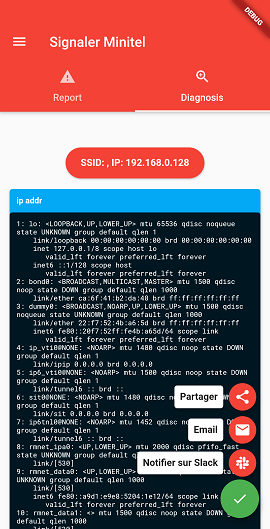
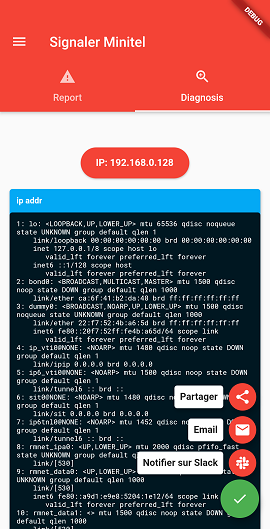
Diagnose: Kick SSID Scan and Location permission

Changed region(s): [[0.237, 0.2722, 0.7704, 0.3629]]

diff --git a/lib/ui/views/reporting_tabs/diagnose_tab.dart b/lib/ui/views/reporting_tabs/diagnose_tab.dart
@@ -34,24 +34,16 @@ class DiagnoseTab extends StatelessWidget {
                 label: Padding(
                   padding: const EdgeInsets.all(10.0),
                   child: FutureBuilder<String>(
-                    future: _diagnosis.report[DiagnosisContent.ssid],
-                    builder: (context, ssidSnapshot) {
-                      return FutureBuilder<String>(
-                        future: _diagnosis.report[DiagnosisContent.ip],
-                        builder: (context, ipSnapshot) {
-                          String output = "${DiagnosisContent.ssid}: ";
-                          output +=
-                              ssidSnapshot.hasData ? ssidSnapshot.data : "";
-                          output += ", ${DiagnosisContent.ip}: ";
-                          output += ipSnapshot.hasData ? ipSnapshot.data : "";
-                          return Text(
-                            output,
-                            style: const TextStyle(
-                              fontWeight: FontWeight.bold,
-                              color: Colors.white,
-                            ),
-                          );
-                        },
+                    future: _diagnosis.report[DiagnosisContent.ip],
+                    builder: (context, ipSnapshot) {
+                      String output = "${DiagnosisContent.ip}: ";
+                      output += ipSnapshot.hasData ? ipSnapshot.data : "";
+                      return Text(
+                        output,
+                        style: const TextStyle(
+                          fontWeight: FontWeight.bold,
+                          color: Colors.white,
+                        ),
                       );
                     },
                   ),
@@ -59,8 +51,7 @@ class DiagnoseTab extends StatelessWidget {
               ),
             ),
             for (String item in DiagnosisContent())
-              if (item != DiagnosisContent.ssid &&
-                  item != DiagnosisContent.ip) // Ignore them
+              if (item != DiagnosisContent.ip) // Ignore them
                 FutureBuilder<String>(
                   future: _diagnosis.report[item],
                   builder: (BuildContext context, snapshot) {

diff --git a/lib/core/models/diagnosis.dart b/lib/core/models/diagnosis.dart
@@ -5,7 +5,6 @@ import 'package:dscript_exec/dscript_exec.dart';
 import 'package:flutter/material.dart';
 import 'package:minitel_toolbox/core/constants/app_constants.dart';
 import 'package:minitel_toolbox/core/services/http_gateway.dart';
-import 'package:permission_handler/permission_handler.dart';
 
 /// This stores all diagnosis results.
 ///
@@ -51,7 +50,7 @@ class Diagnosis {
   ///
   /// Run multiples command and store into the [report] Map.
   /// The suite is composed of :
-  /// - SSID, IP scan from [Connectivity]
+  /// - IP scan from [Connectivity]
   /// - ip a
   /// - Address Resolution Protocol (Busybox) -a
   /// - su -c tracerout google.com and 8.8.8.8
@@ -70,17 +69,7 @@ class Diagnosis {
 
     if (connectivityResult == ConnectivityResult.mobile ||
         connectivityResult == ConnectivityResult.wifi) {
-      // Check location permission to get SSID name
-      PermissionStatus permStatus = await PermissionHandler()
-          .checkPermissionStatus(PermissionGroup.location);
-
-      if (permStatus != PermissionStatus.granted) {
-        await PermissionHandler()
-            .requestPermissions([PermissionGroup.location]);
-      }
-
       // Fill the report
-      _report[DiagnosisContent.ssid] = Connectivity().getWifiName();
       _report[DiagnosisContent.ip] = Connectivity().getWifiIP();
 
       await Future.wait([
@@ -184,7 +173,6 @@ class Diagnosis {
 
 /// Content of the report after a diagnosis.
 class DiagnosisContent extends Iterable<String> {
-  static const String ssid = "SSID";
   static const String ip = "IP";
   static const String ipAddr = "ip addr";
   static const String arp = "Address Resolution Protocol (SU + Busy)";
@@ -212,7 +200,6 @@ class DiagnosisContent extends Iterable<String> {
   /// for (String content in DiagnosisContent())
   /// ```
   Iterator<String> get iterator => [
-        ssid,
         ip,
         ipAddr,
         arp,

diff --git a/lib/ui/views/docs_pages/toolbox_docs/diagnose_doc.dart b/lib/ui/views/docs_pages/toolbox_docs/diagnose_doc.dart
@@ -18,11 +18,6 @@ class DiagnoseDoc extends StatelessWidget {
             crossAxisAlignment: CrossAxisAlignment.start,
             children: <Widget>[
               const BoxMdH("Diagnostique", 1),
-              const BoxMdH("Permission Location", 2),
-              const Text(
-                "Indique si vous avez authorisé le GPS pour déterminer le SSID (identifiant du réseau).",
-                style: MinitelTextStyles.body1,
-              ),
               const BoxMdH("ip a", 2),
               const Text.rich(
                 TextSpan(

diff --git a/lib/core/viewmodels/views/reporting_view_model.dart b/lib/core/viewmodels/views/reporting_view_model.dart
@@ -48,6 +48,9 @@ class ReportingViewModel extends ChangeNotifier {
         (Timer t) => percentageDiagnoseProgress.value += 1 / 60,
       );
 
+      // Refersh ONE second after launching diagnose
+      Future.delayed(const Duration(seconds: 1), notifyListeners);
+
       // Diagnose
       await diagnosis.diagnose();
 
